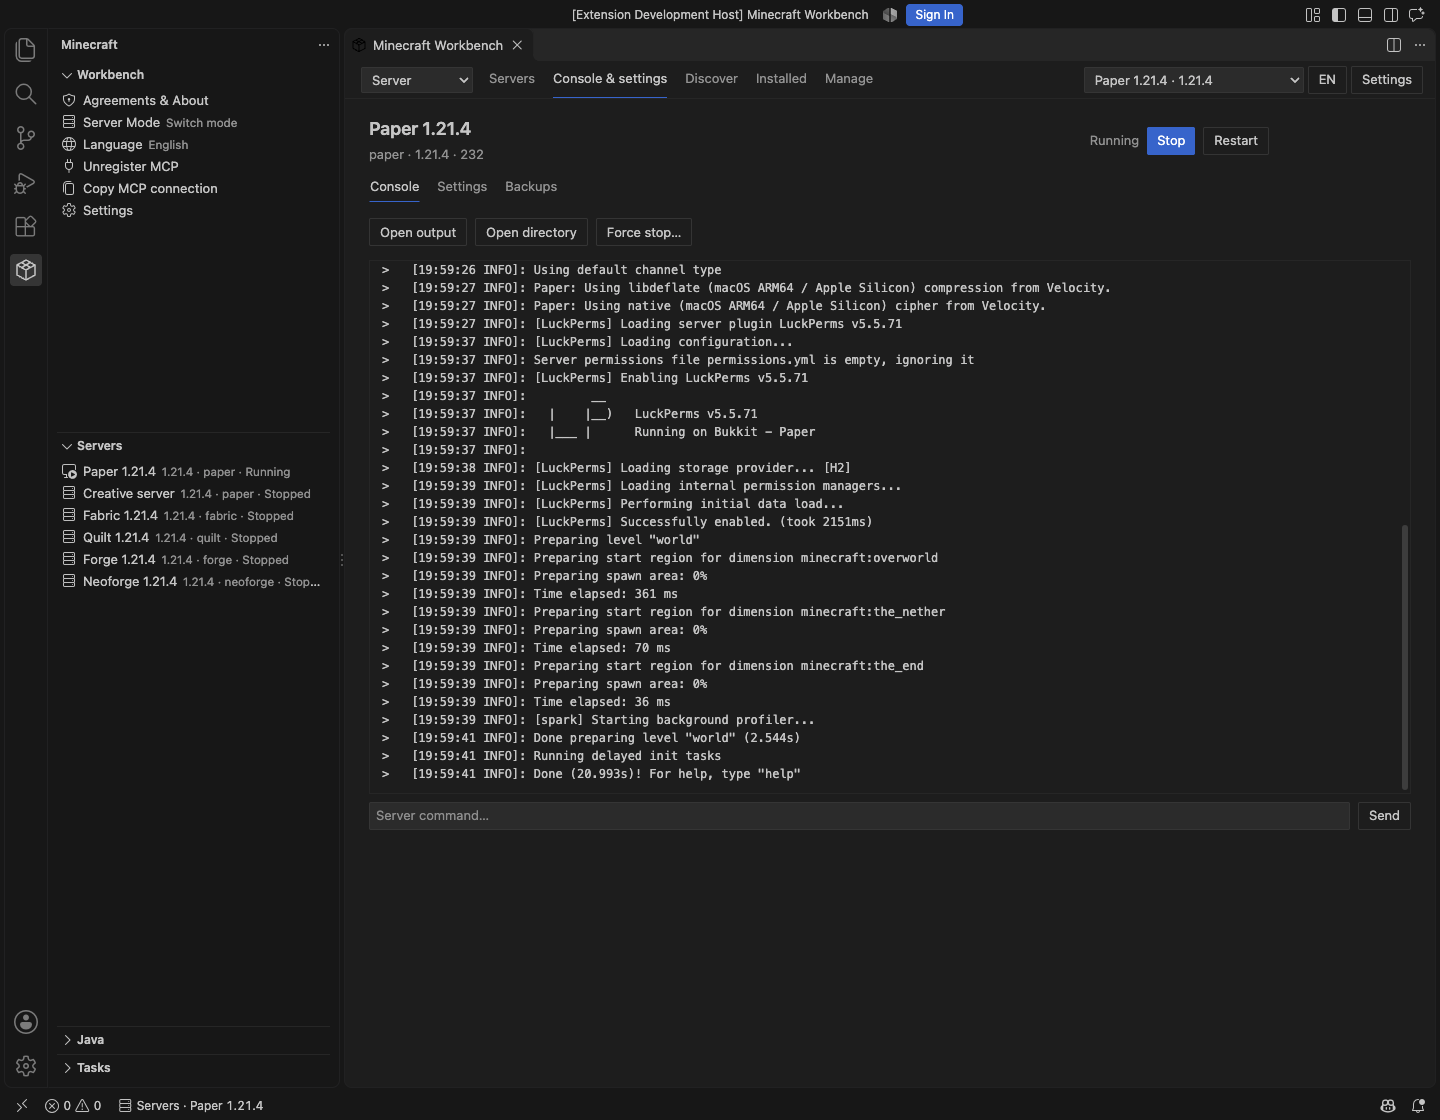
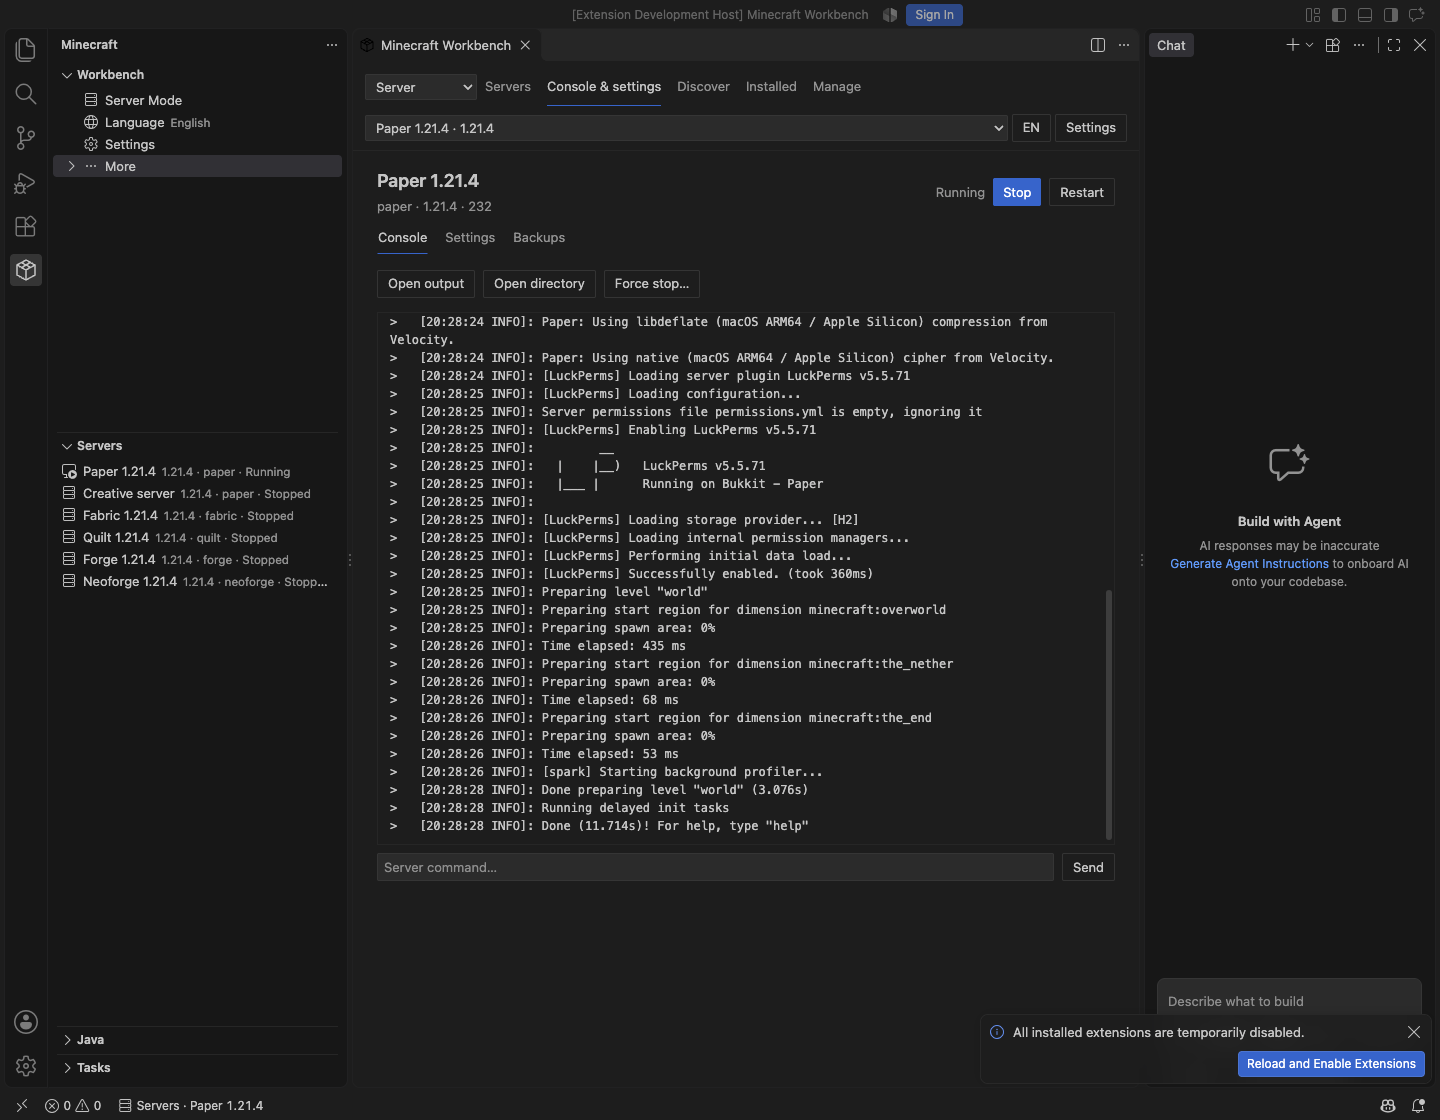
Keep common controls visible and group secondary actions

diff --git a/src/views.ts b/src/views.ts
@@ -74,15 +74,65 @@ export class View implements vscode.TreeDataProvider<Item>, vscode.Disposable {
             new Item(t('Language', '语言'), 'action', undefined, 'globe', 'language'),
           ]
         : [];
-    if (this.section === 'home')
+    if (this.section === 'home') {
+      if (_parent?.kind === 'moreHome')
+        return [
+          new Item(
+            t('Agreements & About', '协议与关于'),
+            'action',
+            undefined,
+            'shield',
+            'agreements',
+          ),
+          new Item(t('Documentation', '使用文档'), 'action', undefined, 'book', 'help'),
+          new Item(
+            config('mcp.enabled', false)
+              ? t('Unregister MCP', '取消注册 MCP')
+              : t('Register MCP', '注册 MCP'),
+            'action',
+            undefined,
+            'plug',
+            config('mcp.enabled', false) ? 'unregisterMcp' : 'registerMcp',
+          ),
+          ...(config('mcp.enabled', false)
+            ? [
+                new Item(
+                  t('Copy MCP connection', '复制 MCP 连接'),
+                  'action',
+                  undefined,
+                  'copy',
+                  'mcpCopy',
+                ),
+              ]
+            : []),
+          new Item(t('Show output', '显示输出'), 'action', undefined, 'output', 'output'),
+          new Item(
+            t('Open storage directory', '打开存储目录'),
+            'action',
+            undefined,
+            'folder-opened',
+            'openStorage',
+          ),
+          new Item(
+            t('Proxy credentials', '代理凭据'),
+            'action',
+            undefined,
+            'key',
+            'proxyCredentials',
+          ),
+        ];
+      if (_parent) return [];
+      const more = new Item(
+        t('More', '更多'),
+        'moreHome',
+        undefined,
+        'ellipsis',
+        undefined,
+        undefined,
+        true,
+      );
+      more.id = 'minecraftWorkbench.more';
       return [
-        new Item(
-          t('Agreements & About', '协议与关于'),
-          'action',
-          undefined,
-          'shield',
-          'agreements',
-        ),
         new Item(
           state.mode === 'launcher'
             ? t('Launcher Mode', '启动模式')
@@ -93,7 +143,6 @@ export class View implements vscode.TreeDataProvider<Item>, vscode.Disposable {
           undefined,
           state.mode === 'launcher' ? 'game' : state.mode === 'server' ? 'server' : 'code',
           'mode',
-          t('Switch mode', '切换模式'),
         ),
         new Item(
           t('Language', '语言'),
@@ -103,28 +152,10 @@ export class View implements vscode.TreeDataProvider<Item>, vscode.Disposable {
           'language',
           t('English', '简体中文'),
         ),
-        new Item(
-          config('mcp.enabled', false)
-            ? t('Unregister MCP', '取消注册 MCP')
-            : t('Register MCP', '注册 MCP'),
-          'action',
-          undefined,
-          'plug',
-          'mcp',
-        ),
-        ...(config('mcp.enabled', false)
-          ? [
-              new Item(
-                t('Copy MCP connection', '复制 MCP 连接'),
-                'action',
-                undefined,
-                'copy',
-                'mcpCopy',
-              ),
-            ]
-          : []),
         new Item(t('Settings', '设置'), 'action', undefined, 'settings-gear', 'settings'),
+        more,
       ];
+    }
     if (this.section === 'instances') {
       return state.instances.map((instance) => {
         const running = this.minecraft.running.has(instance.id);

diff --git a/src/extension.ts b/src/extension.ts
@@ -41,6 +41,11 @@ export async function activate(context: vscode.ExtensionContext) {
     }
     workbench?.refresh();
     mcp?.refresh();
+    void vscode.commands.executeCommand(
+      'setContext',
+      'minecraftWorkbench.mcpEnabled',
+      mcp?.enabled ?? false,
+    );
     void vscode.commands.executeCommand('setContext', 'minecraftWorkbench.mode', store.state.mode);
     void vscode.commands.executeCommand(
       'setContext',
@@ -188,6 +193,8 @@ export async function activate(context: vscode.ExtensionContext) {
     agreements: () => workbench!.open('agreements'),
     mode: () => ui.mode(),
     mcp: () => mcp!.toggle(),
+    registerMcp: () => mcp!.setEnabled(true),
+    unregisterMcp: () => mcp!.setEnabled(false),
     mcpCopy: () => mcp!.copyConnection(),
     manageServers: () => workbench!.open('servers'),
     createServer: () => workbench!.open('serverCreate'),

diff --git a/test/mcp.test.ts b/test/mcp.test.ts
@@ -3,9 +3,14 @@ import assert from 'node:assert/strict';
 import { Client } from '@modelcontextprotocol/sdk/client/index.js';
 import { StreamableHTTPClientTransport } from '@modelcontextprotocol/sdk/client/streamableHttp.js';
 import type * as VSCode from 'vscode';
+import manifest from '../package.json';
 import { mcpOperations } from '../src/mcp-operations';
 
 test('MCP tools are unique and cannot bypass native command or agreement controls', () => {
+  const setting = manifest.contributes.configuration
+    .flatMap((group) => Object.entries(group.properties))
+    .find(([key]) => key === 'minecraftWorkbench.mcp.enabled');
+  assert.equal((setting?.[1] as { default: boolean }).default, false);
   assert.equal(new Set(mcpOperations.map((op) => op.name)).size, mcpOperations.length);
   assert.equal(
     mcpOperations.some((op) => op.method === 'consent.accept'),

diff --git a/src/mcp.ts b/src/mcp.ts
@@ -67,9 +67,12 @@ export class WorkbenchMcp implements vscode.Disposable {
     this.changed.fire();
   }
   async toggle() {
+    return this.setEnabled(!config('mcp.enabled', false));
+  }
+  async setEnabled(enabled: boolean) {
     await vscode.workspace
       .getConfiguration('minecraftWorkbench')
-      .update('mcp.enabled', !config('mcp.enabled', false), vscode.ConfigurationTarget.Global);
+      .update('mcp.enabled', enabled, vscode.ConfigurationTarget.Global);
     this.refresh();
     void vscode.window.showInformationMessage(
       this.enabled

diff --git a/src/mcp-operations.ts b/src/mcp-operations.ts
@@ -558,6 +558,8 @@ export const mcpOperations: McpOperation[] = [
         'inspectInstance',
         'mcp',
         'mcpCopy',
+        'registerMcp',
+        'unregisterMcp',
       ]),
     },
     required: ['command'],

diff --git a/CHANGELOG.md b/CHANGELOG.md
@@ -4,9 +4,9 @@
 
 - Added Server Mode with isolated Vanilla, Paper, Purpur, Folia, Fabric, Quilt, Forge, NeoForge, Velocity and custom JAR profiles, automatic JDK preparation, console commands, settings, version changes and world backups.
 - Added Modrinth server plugins and mods, platform filters, dependency review and content management.
-- Added optional MCP registration with 43 tools, authenticated loopback transport and a connection configuration command.
+- Added MCP registration (off by default) with 43 tools, authenticated loopback transport and a connection configuration command.
 - Added shared verified download caching, reuse of existing isolated runtimes and parallel resumable ranges for large files.
-- Reworked mode navigation, button alignment, empty states and modpack import entry points. Preserved settings drafts during background refreshes.
+- Reworked mode navigation, button alignment, empty states and modpack import entry points. Preserved settings drafts during background refreshes. Mode, language and Settings stay visible; less-used actions live in a collapsed More group.
 - Corrected the Marketplace publisher to `Lopleec`; retained existing default storage. Microsoft accounts need to sign in again after migrating from the old extension ID.
 - Fixed Quilt installer checksum selection, server restart locking, retry locking, modpack registration rollback and invalid proxy startup handling.
 
@@ -14,8 +14,8 @@
 
 - 新增开服模式，支持独立的 Vanilla、Paper、Purpur、Folia、Fabric、Quilt、Forge、NeoForge、Velocity 和自定义 JAR 服务端，以及自动准备 JDK、控制台指令、配置、版本更换和存档备份。
 - 新增 Modrinth 服务端插件与模组、平台筛选、前置预览和内容管理。
-- 新增可选 MCP 注册，提供 43 个工具、本机授权接口和连接配置复制命令。
+- 新增默认关闭的 MCP 注册，提供 43 个工具、本机授权接口和连接配置复制命令。
 - 新增共享校验缓存、旧实例文件复用和大文件分段并行续传。
-- 调整模式导航、按钮对齐、空列表与整合包导入入口；后台刷新保留设置草稿。
+- 调整模式导航、按钮对齐、空列表与整合包导入入口；后台刷新保留设置草稿。模式、语言和设置直接可见，低频操作位于默认收起的更多分组。
 - Marketplace Publisher 改为 `Lopleec`，保留原有默认存储；从旧扩展 ID 迁移后，Microsoft 账户需重新登录。
 - 修复 Quilt 安装器校验来源、服务端重启锁、重试锁、整合包登记失败回滚和无效代理导致激活失败的问题。
